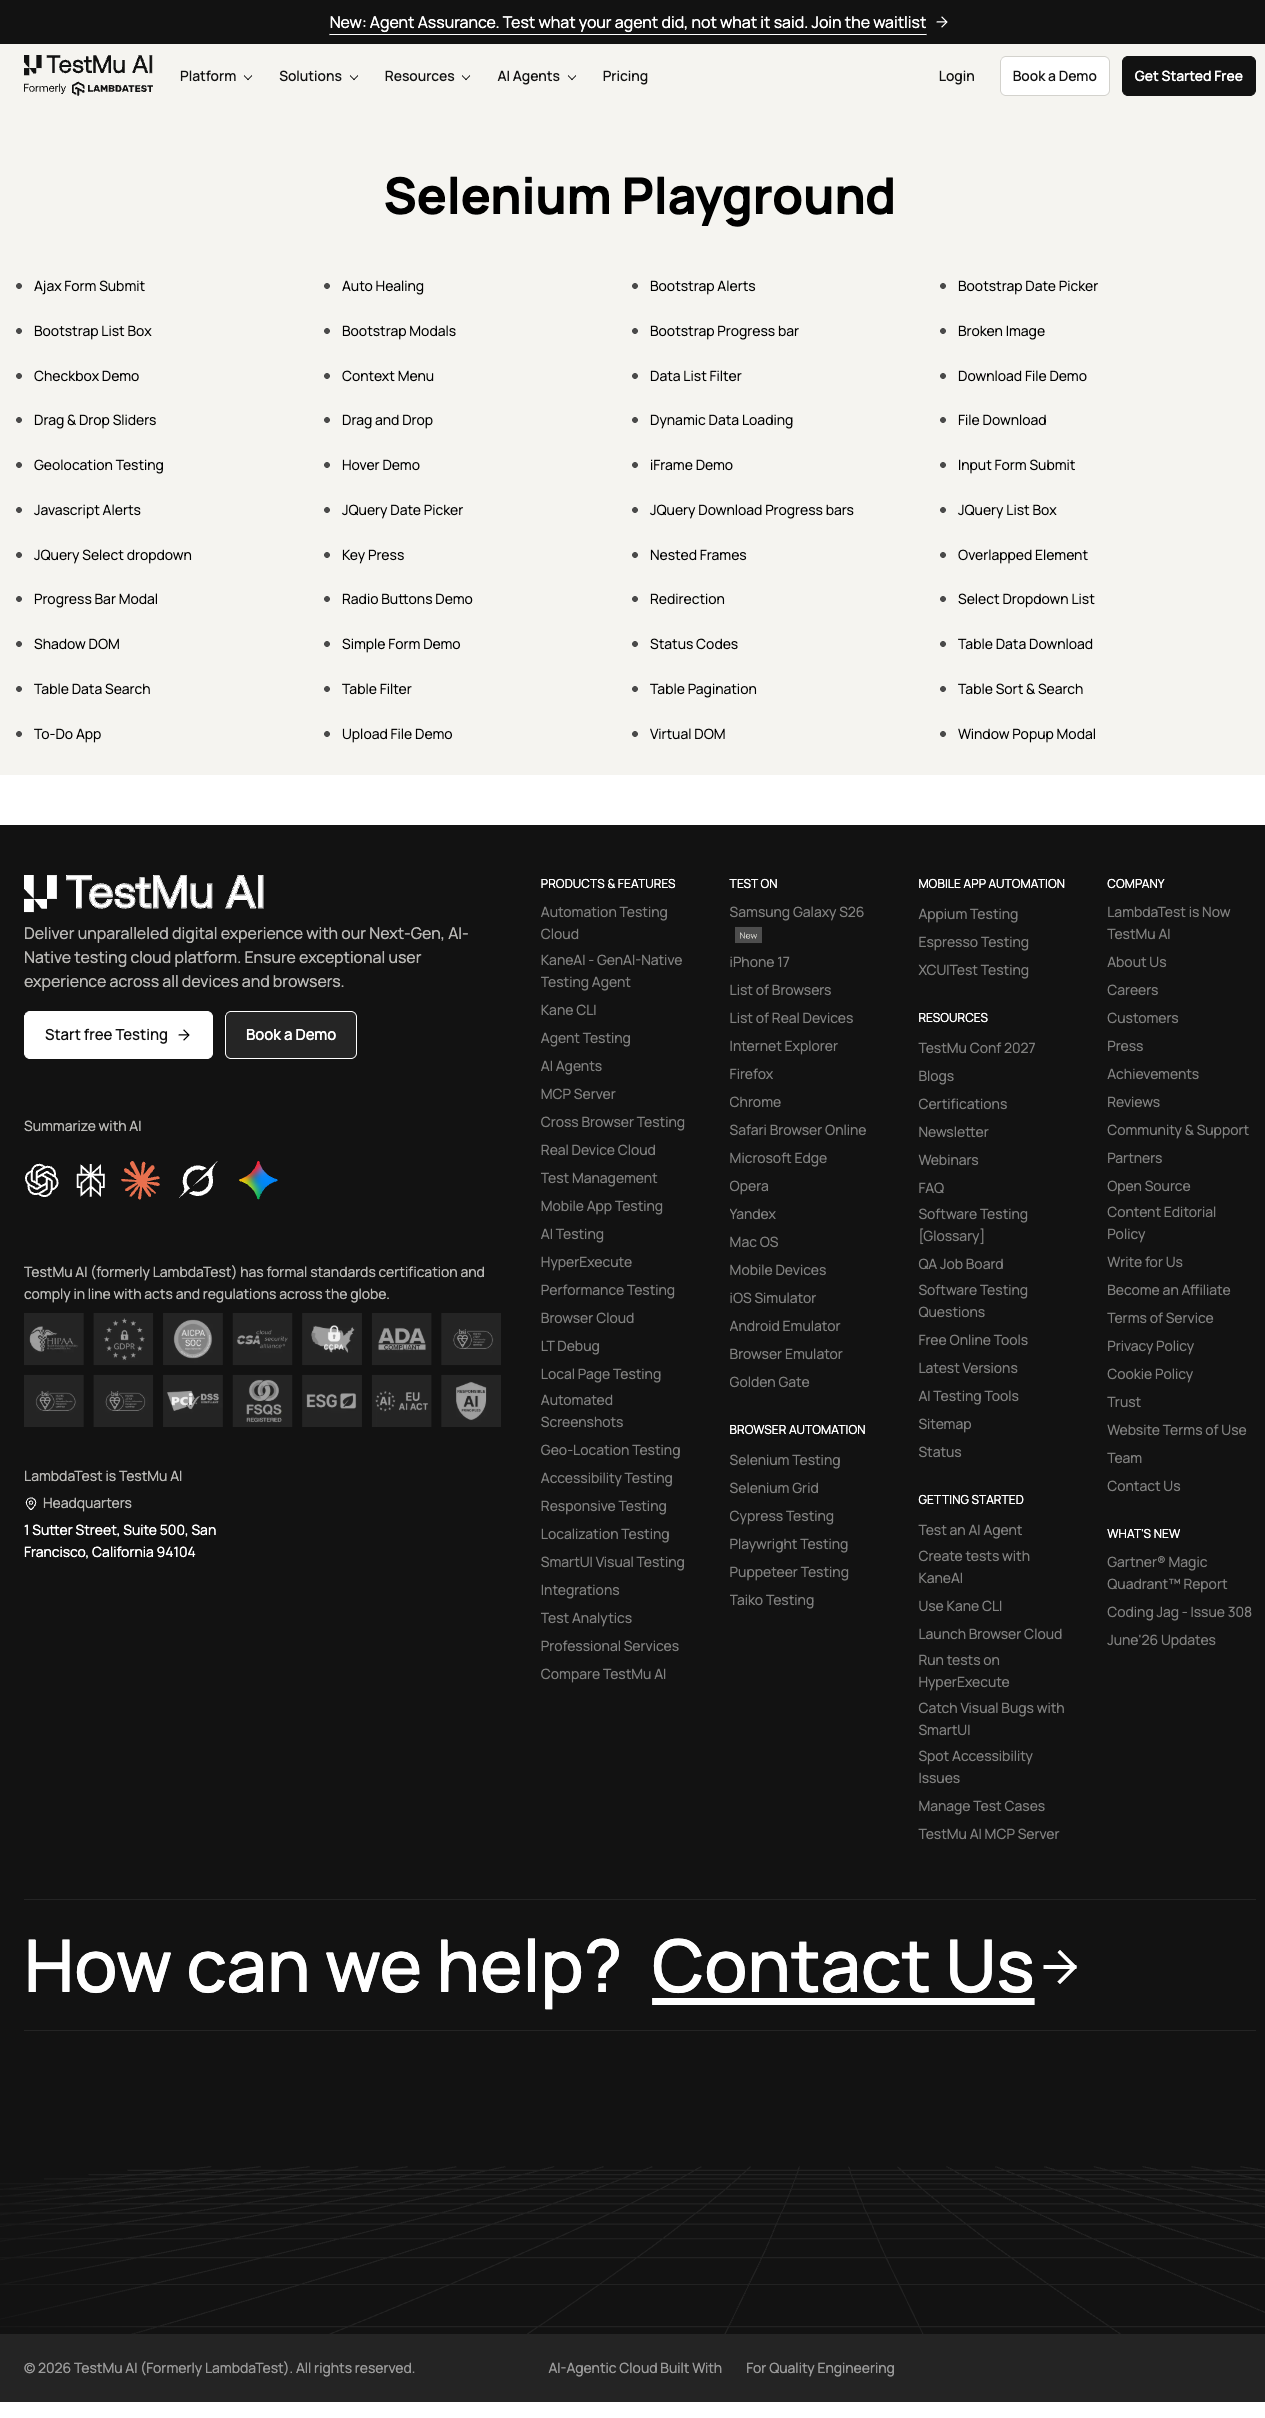
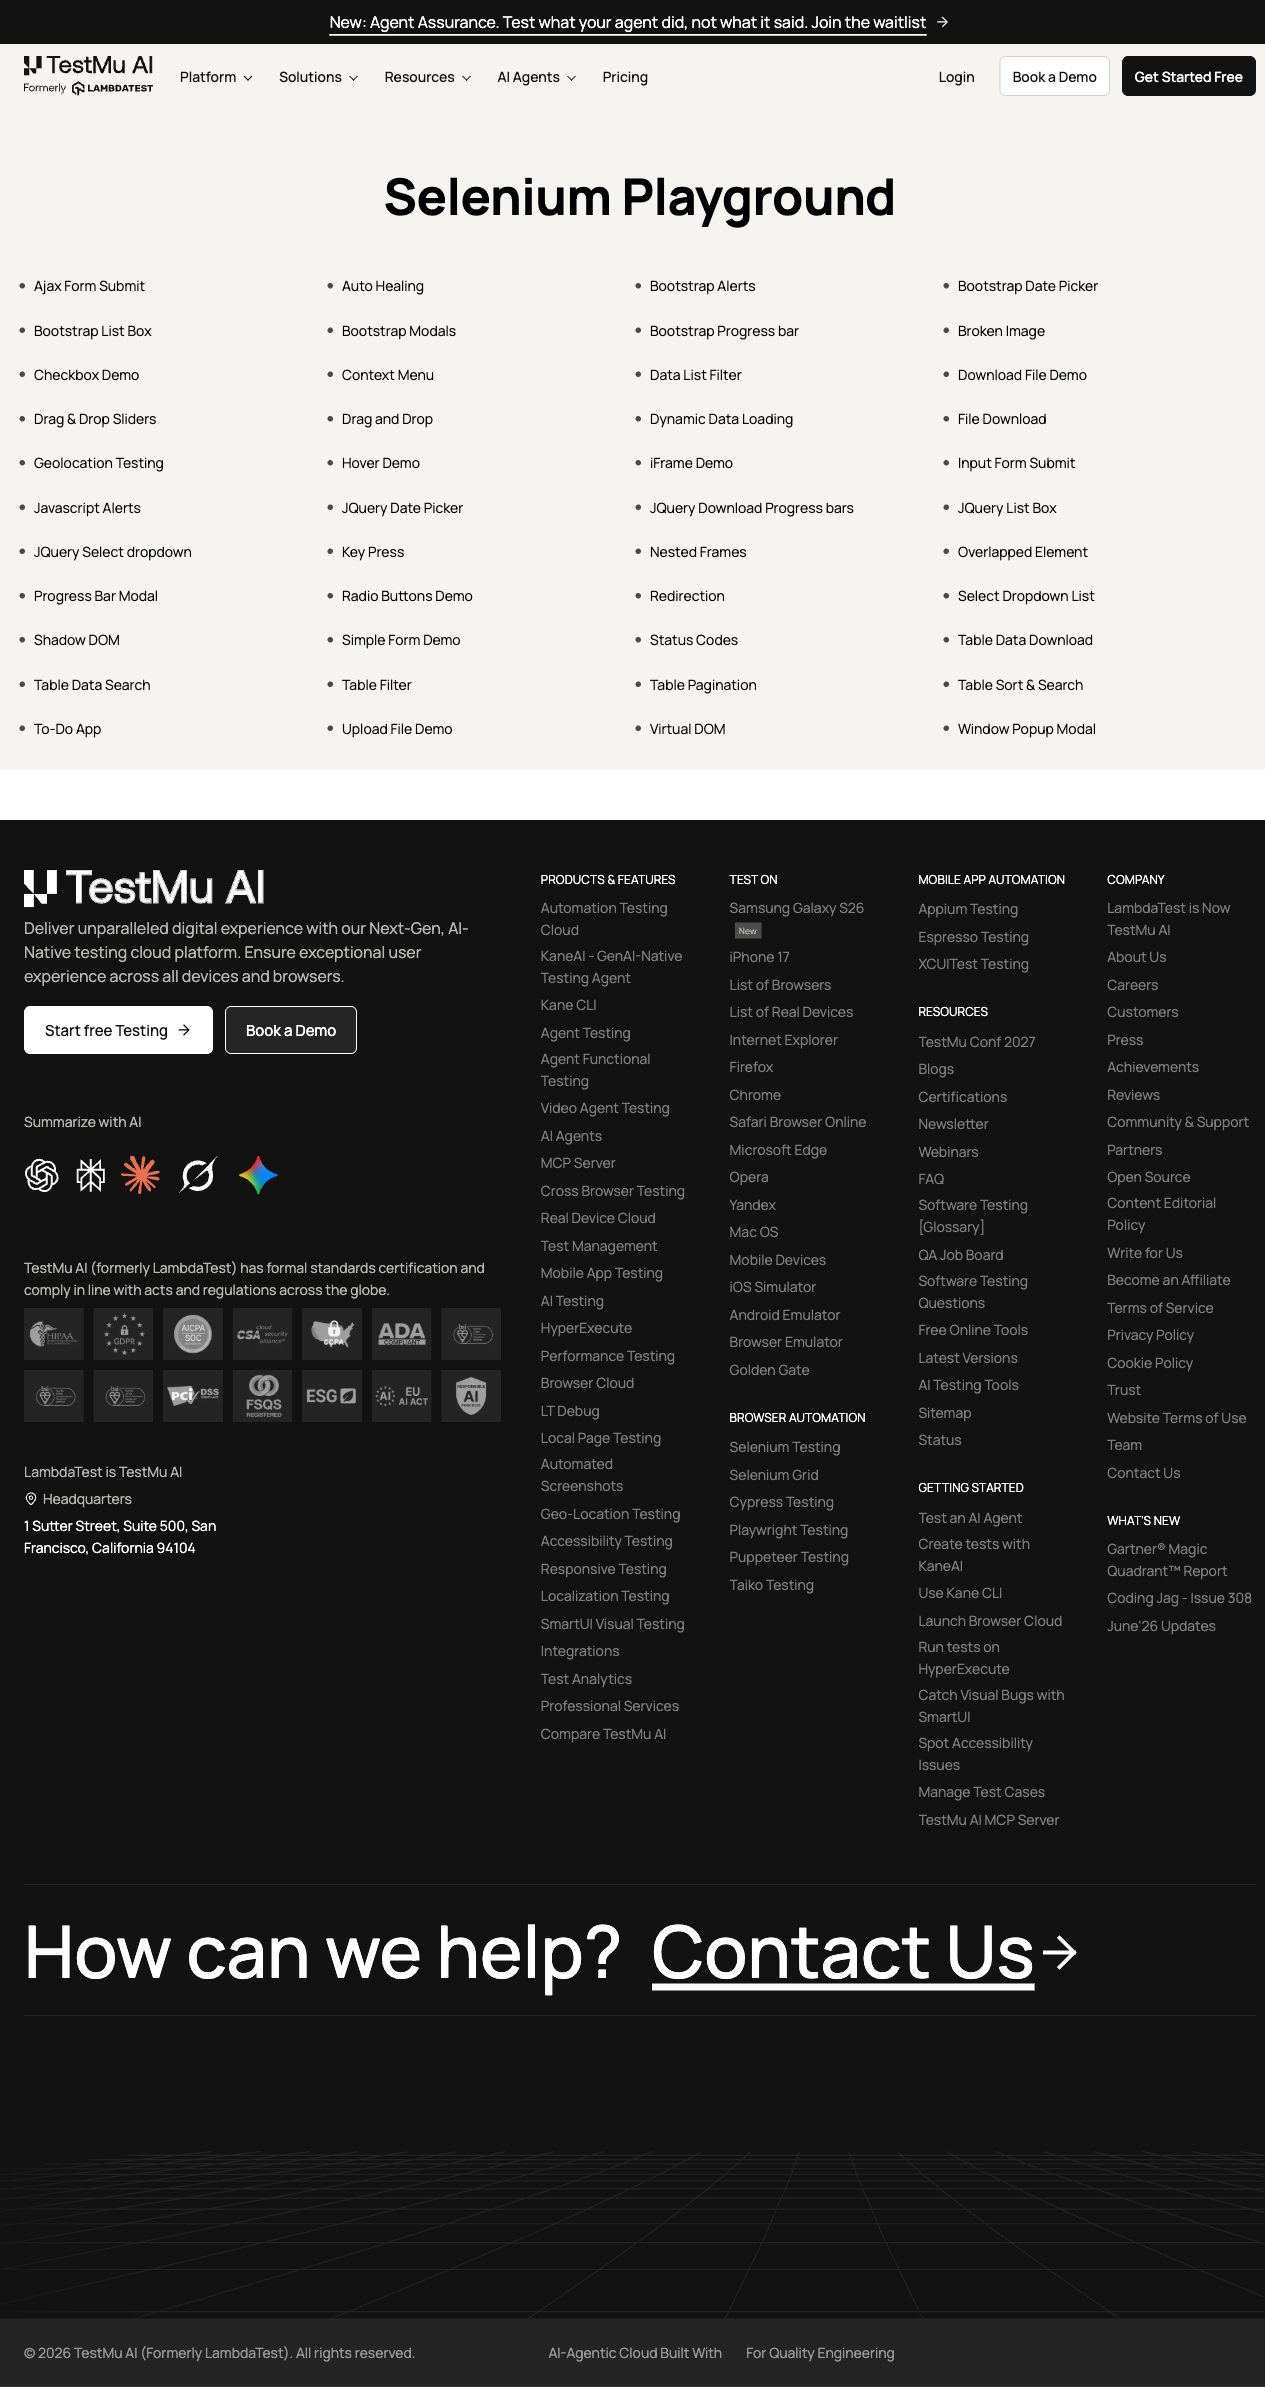
replace hardcoded credentials with data module

diff --git a/tests/locators.spec.ts b/tests/locators.spec.ts
@@ -1,4 +1,5 @@
 import { test, expect } from '@playwright/test';
+import { DATA } from "../data/data";
 
 test.describe('Locators', () => {
   test('should locate elements by role', async ({ page }) => {
@@ -21,8 +22,8 @@ test.describe('Locators', () => {
         await page.goto('https://www.saucedemo.com');
 
         // get element by placeholder
-        await page.getByPlaceholder('Username').fill('test_user');
-        await page.getByPlaceholder('Password').fill('test_password');
+        await page.getByPlaceholder('Username').fill(DATA.user.username);
+        await page.getByPlaceholder('Password').fill(DATA.user.password);
         await page.getByRole('button', { name: 'Login'}).click();
     });
 
@@ -54,8 +55,8 @@ test.describe('Locators', () => {
     test("should locate elements by particular testing attribute", async ({ page }) => {
         await page.goto('https://saucedemo.com');
 
-        await page.getByPlaceholder('Username').fill('standard_user');
-        await page.getByPlaceholder('Password').fill('secret_sauce');
+        await page.getByPlaceholder('Username').fill(DATA.user.username);
+        await page.getByPlaceholder('Password').fill(DATA.user.password);
         await page.getByRole('button', { name: 'Login' }).click();
 
         // get element by data-test (testing attribute)

diff --git a/tests/pomLogin.spec.ts b/tests/pomLogin.spec.ts
@@ -1,8 +1,9 @@
+import { DATA } from "../data/data";
 import {test, expect} from "../fixtures/pageObjectFixture";
 
 test('should login successfully', async({ page, loginPage }) => {
     await loginPage.open();
-    await loginPage.login('standard_user', 'secret_sauce');
+    await loginPage.login(DATA.user.username, DATA.user.password);
     await expect(page).toHaveURL(/inventory/);
     
     await page.waitForTimeout(2000);
@@ -11,7 +12,7 @@ test('should login successfully', async({ page, loginPage }) => {
 test('should add product to cart correctly', async ({ page, loginPage, productListPage, cartPage }) => {
     // login
     await loginPage.open();
-    await loginPage.login('standard_user', 'secret_sauce');
+    await loginPage.login(DATA.user.username, DATA.user.password);
     await expect(page).toHaveURL(/inventory/);
 
     // product page

diff --git a/fixtures/loginFixture.ts b/fixtures/loginFixture.ts
@@ -1,4 +1,5 @@
 import { test as base, Page } from '@playwright/test';
+import { DATA } from "../data/data";
 
 type loginFixture = {
     loggedinPage: Page;
@@ -7,8 +8,8 @@ type loginFixture = {
 export const test = base.extend<loginFixture>({
     loggedinPage: async({ page }, use) => {
         await page.goto('https://saucedemo.com/');
-        await page.locator('#user-name').fill('standard_user');
-        await page.locator('#password').fill('secret_sauce');
+        await page.locator('#user-name').fill(DATA.user.username);
+        await page.locator('#password').fill(DATA.user.password);
         await page.getByRole('button', { name: 'Login' }).click();
 
         use(page);

diff --git a/tests/hooks_2.spec.ts b/tests/hooks_2.spec.ts
@@ -1,4 +1,5 @@
 import { test, expect, Page } from '@playwright/test';
+import { DATA } from "../data/data";
 
 // The goal of this file is to show how to user beforAll() and afterAll() hooks
 
@@ -9,8 +10,8 @@ test.beforeAll(async ({ browser }) => {
     await page.goto('https://saucedemo.com');
 
     // login
-    await page.getByPlaceholder('Username').fill('standard_user');
-    await page.getByPlaceholder('Password').fill('secret_sauce');
+    await page.getByPlaceholder('Username').fill(DATA.user.username);
+    await page.getByPlaceholder('Password').fill(DATA.user.password);
     await page.getByRole('button', { name: 'Login'}).click();
 });
 

diff --git a/tests/loginFlow.spec.ts b/tests/loginFlow.spec.ts
@@ -24,14 +24,10 @@ test.describe("Login Flow", () => {
         await expect(page).toHaveTitle('Logged In Successfully | Practice Test Automation');
         await expect(page).toHaveURL(successFullyPageURL);
         await expect(page.getByText('Logged In Successfully')).toBeVisible();
-
-        await page.waitForTimeout(3000);
         
         // logout steps
         await page.getByRole('link', { name: 'Log out' }).click();
-        
-        await page.waitForTimeout(2000);
-        
+                
         // verify loggedout successfully
         expect(page).toHaveURL(loginPageURL);
         await expect(pageHeading).toBeVisible();

diff --git a/tests/auth.setup.ts b/tests/auth.setup.ts
@@ -1,9 +1,10 @@
 import { test as setup, expect } from '@playwright/test';
+import { DATA } from "../data/data";
 
 setup('authenticate', async ({ page }) => {
     await page.goto('https://saucedemo.com/');
-    await page.locator('#user-name').fill('standard_user');
-    await page.locator('#password').fill('secret_sauce');
+    await page.locator('#user-name').fill(DATA.user.username);
+    await page.locator('#password').fill(DATA.user.password);
     await page.getByRole('button', { name: 'Login' }).click();
     
     await page.waitForTimeout(2000);

diff --git a/tests/hooks.spec.ts b/tests/hooks.spec.ts
@@ -1,11 +1,12 @@
 import { test, expect } from '@playwright/test';
+import { DATA } from "../data/data";
 
 test.beforeEach(async ({ page }) => {
     await page.goto('https://saucedemo.com');
 
     // login
-    await page.getByPlaceholder('Username').fill('standard_user');
-    await page.getByPlaceholder('Password').fill('secret_sauce');
+    await page.getByPlaceholder('Username').fill(DATA.user.username);
+    await page.getByPlaceholder('Password').fill(DATA.user.password);
     await page.getByRole('button', { name: 'Login'}).click();
 });
 

diff --git a/tests/autoSuggest.spec.ts b/tests/autoSuggest.spec.ts
@@ -6,7 +6,7 @@ test('should test the auto suggestions correctly', async ({ page }) => {
     const searchText = 'playwright';
 
     // search input on Youtube.com
-    await page.getByPlaceholder('Search').fill(searchText);
+    await page.locator('.ytSearchboxComponentInput').fill(searchText);
 
     // auto suggestion item container
     await page.waitForSelector('.ytSuggestionComponentLeftContainer');

diff --git a/data/data.ts b/data/data.ts
@@ -1,0 +1,6 @@
+export const DATA = {
+    user: {
+        username: 'standard_user',
+        password: 'secret_sauce'
+    }
+};
